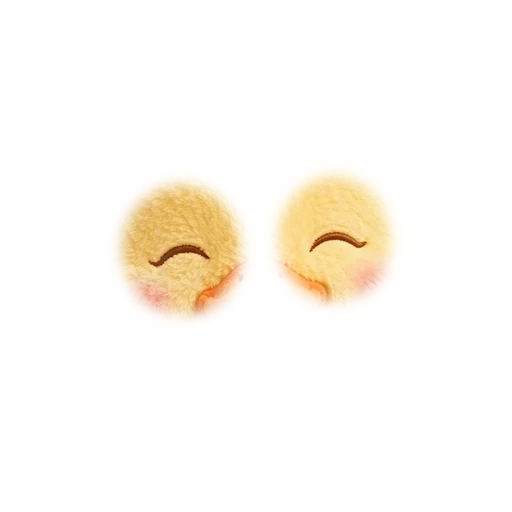
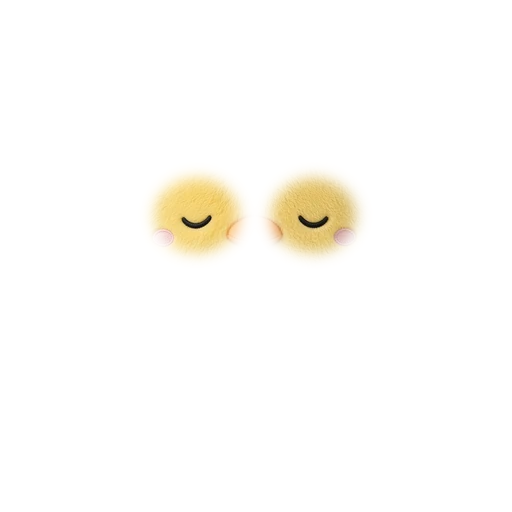
Round-plush: the full still set, all six moods for all twelve animals
The second batch of stills (50, matched to the dog's idle): fox blink and
sleepy; bear think, wait, blink and sleepy; bunny wait and sleepy; and
idle, cheer, think, wait, blink and sleepy for owl, frog, duck, pig,
penguin, lion and koala. Dropped in as rendered, through animal-art.py
--round, which lines each mood up with its animal's idle by the body and
keeps a blink to the shut eyes alone.

Two things the full set taught the pipeline: the frog's eyes sit on bumps
at the sides of its head, further from the middle than the eye finder
reached (a quarter of the face now); and a pastel of the backdrop's own
hue (the mint frog) was being taken for the backdrop's shadow, which cut
its body away, so the shadow rule asks for the backdrop's saturation as
well as its hue (the real shadow keeps it; the frog is far under).

Every animal has every frame now, so the app no longer falls back from a
mood to the idle face: frameFor returns the mood's own frame, the art
test holds every animal to all six, and the e2e that counted on the bear
having no waiting face sees its waiting face instead. The earlier painted
portraits of the seven are gone with their frames.

Claude-Session: https://claude.ai/code/session_01VPsoz1zCgxKYsU219T5WFB

Changed region(s): [[0.2188, 0.3125, 0.7812, 0.625]]

diff --git a/e2e/animals-art.spec.ts b/e2e/animals-art.spec.ts
@@ -115,7 +115,7 @@ test("every animal on the picker is painted, and each one's face is a different 
   expect(missing).toEqual([]);
 });
 
-test("a miss shows the puzzled face over the idle one; a mood with no face of its own keeps the idle face", async ({ page }) => {
+test("a miss shows the puzzled face over the idle one; waiting shows the waiting face", async ({ page }) => {
   const missing = watchArt(page);
   await install(page, profile("bear"));
   await page.getByRole("button", { name: "Mia" }).click();
@@ -125,10 +125,10 @@ test("a miss shows the puzzled face over the idle one; a mood with no face of it
   await expect(host).toHaveAttribute("data-mood", "idle");
   await expect(host).toHaveAttribute("data-frame", "idle");
   // The faces a mood can bring are on the page from the start, see-through, so none is asked for
-  // when its mood comes. The bear has a cheering and a puzzled face, and no waiting face.
-  await expect(host.locator("img.avatar-over")).toHaveCount(2);
+  // when its mood comes: a cheering, a puzzled, a waiting and a sleepy face. Every animal has them all.
+  await expect(host.locator("img.avatar-over")).toHaveCount(4);
   await expect(host.locator("img.avatar-over[data-face=think]")).toHaveAttribute("data-on", "false");
-  await expect(host.locator("img.avatar-over[data-face=wait]")).toHaveCount(0);
+  await expect(host.locator("img.avatar-over[data-face=wait]")).toHaveAttribute("data-on", "false");
   // A wrong tap: the coach's puzzled look, which is the bear's own puzzled face (eyes aside, head
   // tipped a little) faded in over the idle one, with the tilt on the box as well.
   const frame = page.locator(".game-frame").first();
@@ -141,12 +141,14 @@ test("a miss shows the puzzled face over the idle one; a mood with no face of it
   await expect(host).toHaveAttribute("data-frame", "think");
   await expect(host.locator("img.avatar-over[data-face=think]")).toHaveAttribute("data-on", "true");
   await expect(host.locator("img.avatar-over[data-face=think]")).toHaveAttribute("src", /\/animals\/bear\/think-face\.webp$/);
-  // Waiting (the nudge, after a while with nothing tapped) has no face of its own: the idle face
-  // stays, and the sway is on the box.
+  // Waiting (the nudge, after a while with nothing tapped) is the bear's own waiting face (eyes up),
+  // faded in over the idle one; no mood falls back to the idle face.
   await page.clock.runFor(9000);
   await expect(host).toHaveAttribute("data-mood", "wait");
-  await expect(host).toHaveAttribute("data-frame", "idle");
-  await expect(host.locator("img.avatar-over[data-on=true]")).toHaveCount(0);
+  await expect(host).toHaveAttribute("data-frame", "wait");
+  await expect(host.locator("img.avatar-over[data-face=wait]")).toHaveAttribute("data-on", "true");
+  await expect(host.locator("img.avatar-over[data-face=wait]")).toHaveAttribute("src", /\/animals\/bear\/wait-face\.webp$/);
+  await expect(host.locator("img.avatar-over[data-on=true]")).toHaveCount(1);
   expect(missing).toEqual([]);
 });
 
@@ -402,12 +404,12 @@ test("two animals on one screen do not blink in step: each starts its turn at a 
   expect(starts.size).toBeGreaterThan(1);
 });
 
-test("every animal has a cheering face, a puzzled face and a blink, the size of its idle face", async ({ page }) => {
+test("every animal has every mood's face (idle, cheer, think, wait, blink, sleepy), the size of its idle face", async ({ page }) => {
   // The list the app itself goes by (made with the pictures, by scripts/animal-art.py).
   const art = JSON.parse(readFileSync(new URL("../src/data/animalArt.json", import.meta.url), "utf8")) as Record<string, { frames: string[] }>;
   const animals = Object.entries(art);
   expect(animals).toHaveLength(12);
-  for (const [animal, entry] of animals) expect(entry.frames, animal).toEqual(expect.arrayContaining(["idle", "cheer", "think", "blink"]));
+  for (const [animal, entry] of animals) expect(entry.frames, animal).toEqual(expect.arrayContaining(["idle", "cheer", "think", "wait", "blink", "sleepy"]));
   await page.goto("./");
   const sizes = await page.evaluate(
     async ({ base, names }) => {

diff --git a/src/avatars.tsx b/src/avatars.tsx
@@ -7,10 +7,11 @@ import { AnimalClip, type ClipName } from "./components/AnimalClip";
 const INK = "#2C3A4F";
 
 /**
- * The painted animals (public/animals/<id>/, made by scripts/animal-art.py): which frames each has
- * and where its head sits in the whole figure. A mood with no frame of its own shows the idle frame
- * (the mood still shows in how the animal moves), so frames can land one at a time; an animal with
- * no entry at all is drawn (the shapes below), so nothing is ever blank.
+ * The round-plush animals (public/animals/<id>/, made by scripts/animal-art.py --round): which
+ * frames each has and where its head sits in the whole figure. Every animal has every mood frame
+ * (idle, cheer, think, wait, blink, sleepy; src/data/animalArt.test.ts holds it to that), so a mood
+ * shows its own face and never falls back to the idle one. An animal with no entry at all would be
+ * drawn (the shapes below); none is, now.
  */
 export type ArtFrame = "idle" | "cheer" | "think" | "wait" | "blink" | "sleepy" | "wave" | "silly";
 export type ArtView = "face" | "body";
@@ -31,10 +32,9 @@ export function artOf(animal: AnimalId): ArtEntry | null {
   return ART[animal] ?? null;
 }
 
-/** The frame a mood shows: its own when the animal has it, else idle (a walk is the idle face hopping). */
-export function frameFor(animal: AnimalId, mood: Mood): ArtFrame {
-  const frames = ART[animal]?.frames ?? [];
-  return mood !== "idle" && mood !== "walk" && frames.includes(mood) ? mood : "idle";
+/** The frame a mood shows: its own face (a walk is the idle face hopping). No falling back to idle. */
+export function frameFor(_animal: AnimalId, mood: Mood): ArtFrame {
+  return mood === "walk" ? "idle" : mood;
 }
 
 /** The view an animal can show: its whole figure only when that is shipped (animalArt.json), else its face. */

diff --git a/src/data/animalArt.test.ts b/src/data/animalArt.test.ts
@@ -4,14 +4,16 @@ import art from "./animalArt.json";
 import { animals } from "./animals";
 
 const FRAMES = ["idle", "cheer", "think", "wait", "blink", "sleepy", "wave", "silly"];
+/** The moods the app asks for: every animal has a face for each (there is no falling back to idle). */
+const MOODS = ["idle", "cheer", "think", "wait", "blink", "sleepy"];
 const file = (id: string, name: string) => existsSync(new URL(`../../public/animals/${id}/${name}`, import.meta.url));
 
 describe("the painted animals", () => {
-  it("every animal has a painted idle face, and every frame listed is there", () => {
+  it("every animal has every mood's face, and every frame listed is there", () => {
     for (const { id } of animals) {
       const entry = (art as Record<string, { frames: string[]; body: boolean; head: Record<string, number>; places?: Record<string, number[]> }>)[id];
       expect(entry, `${id} has art`).toBeDefined();
-      expect(entry.frames).toContain("idle");
+      for (const mood of MOODS) expect(entry.frames, `${id} has a ${mood} face`).toContain(mood);
       for (const frame of entry.frames) {
         expect(FRAMES, `${id}'s ${frame} is a frame the app knows`).toContain(frame);
         expect(file(id, `${frame}-face.webp`), `${id}/${frame}-face.webp`).toBe(true);

diff --git a/scripts/animal-art.py b/scripts/animal-art.py
@@ -103,10 +103,12 @@ def cut_out(path: Path):
     foot = np.zeros((h, w), bool)
     foot[int(h * 0.78) :] = True
     if bghsv[1] > 60:
-        # A coloured backdrop (the round-plush renders: green). Its shadow is the same hue, darker
-        # and greyer, anywhere in the picture: backdrop. Nothing of an animal is that colour.
+        # A coloured backdrop (the round-plush renders: green). Its shadow is the same hue, darker,
+        # and about as saturated, anywhere in the picture: backdrop. Nothing of an animal is that
+        # colour: a plush of the backdrop's own hue (the mint frog) is a pastel, well under the
+        # backdrop's saturation (measured: the shadow stays above 0.9 of it; the frog is under 0.65).
         hue_off = np.abs(((hsv[:, :, 0].astype(np.float32) - bghsv[0]) + 90) % 180 - 90)
-        shadow = (hue_off < 14) & (sat > 40) & (L < bglab[0] + 4)
+        shadow = (hue_off < 14) & (sat > bghsv[1] * 0.8) & (L < bglab[0] + 4)
         mask[shadow] = cv2.GC_BGD
         sure = cv2.erode(((dist > 40) & ~shadow).astype(np.uint8), np.ones((9, 9), np.uint8)) > 0
         mask[sure] = cv2.GC_FGD
@@ -309,7 +311,8 @@ def moved(rgba, head, warp):
 def eyes_of(idle):
     """A round plush's two open eyes on its idle face: the two dark, compact spots in the upper
     middle of the face that sit level, one each side of the middle and clear of it (the nose is dark
-    too, and in the middle). None when no such pair is there."""
+    too, and in the middle), and no further out than a quarter of the face. None when no such pair
+    is there."""
     lab = cv2.cvtColor(idle[:, :, :3], cv2.COLOR_RGB2LAB)
     dark = ((lab[:, :, 0] < 70) & (idle[:, :, 3] > 200)).astype(np.uint8)
     band = np.zeros_like(dark)
@@ -321,7 +324,9 @@ def eyes_of(idle):
     spots = [i for i in spots if 0.5 < stats[i, cv2.CC_STAT_WIDTH] / max(1, stats[i, cv2.CC_STAT_HEIGHT]) < 2.0]
     level = lambda i, j: abs(centres[i][1] - centres[j][1]) < FACE_PX * 0.06
     either_side = lambda i, j: (centres[i][0] - FACE_PX / 2) * (centres[j][0] - FACE_PX / 2) < 0
-    clear = lambda i: FACE_PX * 0.03 < abs(centres[i][0] - FACE_PX / 2) < FACE_PX * 0.22
+    # (Clear of the middle by a little, and no further out than the frog's eyes, which sit on bumps
+    # at the sides of its head: 0.223 of the face from the middle.)
+    clear = lambda i: FACE_PX * 0.03 < abs(centres[i][0] - FACE_PX / 2) < FACE_PX * 0.26
     alike = lambda i, j: 0.4 < stats[i, cv2.CC_STAT_AREA] / stats[j, cv2.CC_STAT_AREA] < 2.5
     pairs = [(i, j) for i, j in combinations(spots, 2) if level(i, j) and either_side(i, j) and clear(i) and clear(j) and alike(i, j)]
     if not pairs:

diff --git a/ASSETS.md b/ASSETS.md
@@ -11,8 +11,7 @@ Everything visual or audible in LittleNest Learning is listed here. There are no
 | Cat, dog, sun, hat, pig, bus, cup, bed, fox, apple | `src/illustrations.tsx` | Original flat drawings made for this project | Original. No third-party artwork. |
 | Word-ladder pictures (one apple, child, frog, fish, and the other new words) | `src/wordScenes.tsx` | Original flat drawings made for this project | Original. No third-party artwork. |
 | Gear, speaker, play, arrow, star, and review badge icons | `src/components/icons.tsx` | Original simple SVG icons made for this project | Original. No third-party artwork. |
-| Profile animals, painted: cat, dog, fox, bear, bunny, owl, frog, duck, pig, penguin, lion, koala | `public/animals/<id>/*-face.webp`, `src/data/animalArt.json` | Plush-style portraits made for this project with an image generator from a style reference, approved by the owner; cut out and cropped to the face by `scripts/animal-art.py` from the source renders (kept outside the repo). Each animal has a `cheer`, a `think` (puzzled: eyes aside, head tipped a little) and a `blink` frame too (the cheer and think faces lined up with the idle face; the blink is only the closed eyes of the blink render, laid over the idle face); the fox also has a `wave` and a `silly` frame. | Original to this project. No third-party characters or artwork. |
-| Profile animal, round plush: dog | `public/animals/dog/*-face.webp`, `src/data/animalArt.json` (`places`) | The first of the round-plush set (docs/round-plush/README.md): one marshmallow body, a small face, made for this project with an image generator from the brief in that doc, approved by the owner; cut off its green backdrop by `scripts/animal-art.py --round` from the source renders (kept outside the repo). Six frames: `idle`, `blink` (the shut eyes alone, over the idle face), `cheer`, `think`, `wait`, `sleepy` (Break time); a mood frame keeps its own crop and the manifest says where the idle frame sits in it. The other eleven follow the same way once the dog is approved. | Original to this project. No third-party characters or artwork. |
+| Profile animals, round plush: cat, dog, fox, bear, bunny, owl, frog, duck, pig, penguin, lion, koala | `public/animals/<id>/*-face.webp`, `src/data/animalArt.json` (`places`) | The round-plush set (docs/round-plush/README.md): one marshmallow body, a small face, made for this project with an image generator from the brief in that doc, the dog's idle still the style lock, approved by the owner; cut off their green backdrop by `scripts/animal-art.py --round` from the source renders (kept outside the repo). Six frames each: `idle`, `blink` (the shut eyes alone, over the idle face), `cheer`, `think`, `wait`, `sleepy` (Break time); a mood frame keeps its own crop and the manifest says where the idle frame sits in it. Every animal has every frame: no mood falls back to the idle face. (The earlier painted portraits are gone.) | Original to this project. No third-party characters or artwork. |
 | Animal clips, round plush: the dog's idle loop and cheer | `public/animals/dog/clips/*.webm` (VP9 with alpha, the web), `*.mov` (HEVC with alpha, the iPhone, encoded on a Mac from the pipeline's master), `*.json`, `src/data/animalClips.json` | Made for this project with a video generator from the brief in docs/round-plush/README.md, on a green backdrop, approved by the owner; keyed, cropped to the still's frame, loop-closed and encoded by `scripts/animal-clips.py` from the source clips (kept outside the repo). Shown by `src/components/AnimalClip.tsx` over the stills. | Original to this project. No third-party characters or artwork. |
 | Profile animals, drawn: the same twelve | `src/avatars.tsx` | Original flat animal portraits made for this project; shown when an animal has no painted face | Original. No third-party artwork. |
 | Game props, painted: two blank coin faces (copper, silver), a blank bill (green, and turned lavender), an empty jar; the fourteen things of the money games (the twelve for sale, and the bed and sock of Need or want); the garden's bed and the ground it stands on, seed, sun, watering can, sprout, plant and flower, and a flower on its own; the hen's life (egg, chick, hen) and the butterfly's (caterpillar, chrysalis, butterfly) | `public/games/*.webp`, `public/games/goods/*.webp`, `public/games/garden/*.webp`, `public/games/life/*.webp` | Watercolour props made for this project with an image generator, approved by the owner; cut off their paper backdrop by `scripts/game-art.py` (the coins' pressed star painted out, the plant lifted off the bed it was painted in). The coins and the bill are pretend: the app draws each one's number and size, and the bill carries no face, seal or wording. Not pictures of real money. | Original to this project. No third-party artwork. |

diff --git a/docs/round-plush/README.md b/docs/round-plush/README.md
@@ -204,6 +204,13 @@ sequence and the WebM, and a small `<clip>.json`: the head's box per frame, for 
 3. The dog's moves (nine clips). Make a dance and Take me home with them. Review.
 4. The other eleven animals, stills first (one sheet), then clips (one sheet with stills from each
    loop), then the thirteen scenes, then the game props.
+   (Stills done 2026-10-09: the first batch brought the cat whole and the fox, bear and bunny in
+   part; the second brought the other 50, all six moods for all twelve. Two things the full set
+   taught the pipeline: the frog's eyes sit on bumps at the sides of its head, further from the
+   middle than the eye finder reached (now a quarter of the face); and a pastel of the backdrop's
+   own hue (the mint frog) was being taken for the backdrop's shadow, so the shadow rule now asks
+   for the backdrop's saturation as well as its hue. With every frame in, the app no longer falls
+   back from a mood to the idle face.)
 
 Review before merge at every step, on a phone, as with the fit and polish sheets.
 
